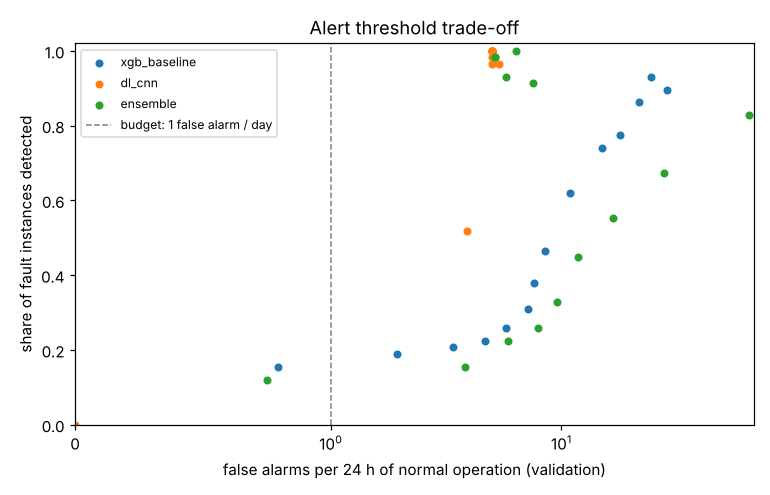
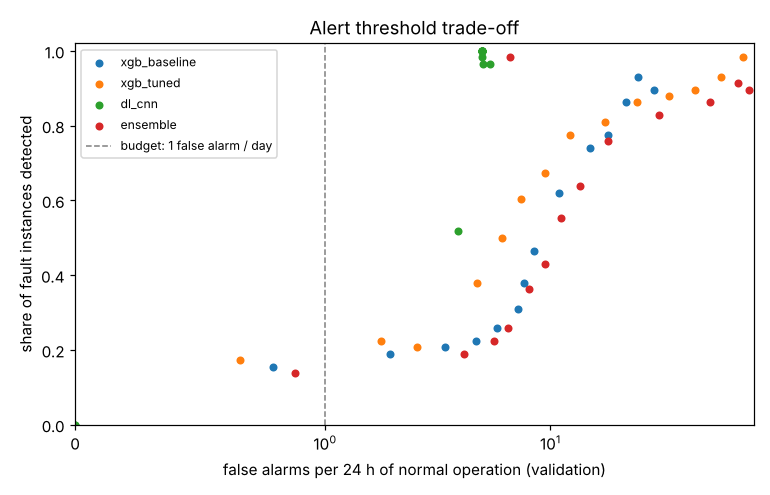
Task 10: compare the tuned model; production model is the tuned XGBoost
- chosen on validation by the fixed rule (detection within 1 false alarm/day): tuned XGBoost,
  threshold 0.85, k 5; on test wells 56% of faults detected, 2.9 false alarms/day, median
  delay 4 min (baseline: 57%, 3.3/day)
- evaluate accepts relative artifact paths

diff --git a/src/owfd/models/evaluate.py b/src/owfd/models/evaluate.py
@@ -268,6 +268,7 @@ def main(argv: list[str] | None = None) -> None:
         d for d in (_latest(artifacts / "xgb", "xgb_baseline"), _latest(artifacts / "dl", "dl_cnn"),
                     _latest(artifacts / "dl", "dl_gru")) if d is not None
     ]  # fmt: skip
+    dirs = [d.resolve() for d in dirs]  # relative paths from the CLI are fine too
     names = {d: d.name.rsplit("-", 2)[0] for d in dirs}
     proba: dict[str, dict[str, np.ndarray]] = {}
     meta: dict[str, pd.DataFrame] = {}

diff --git a/docs/early_warning.md b/docs/early_warning.md
@@ -16,34 +16,36 @@ The production model is also chosen on validation; test numbers are reported onc
 
 ## Model comparison
 
-| | XGBoost | CNN | Ensemble (mean) |
-|---|---:|---:|---:|
-| Val macro F1 (windows) | **0.440** | 0.075 | 0.350 |
-| Test macro F1 (windows) | **0.446** | 0.218 | 0.413 |
-| Calibration error, test (ECE, raw → calibrated) | 0.127 → **0.088** | 0.399 → 0.242 | 0.145 → 0.125 |
-| Tuned rule (threshold, k) | 0.80, 5 | 0.90, 1 | 0.90, 5 |
-| Val: faults detected / false alarms per day | 21% / 0.92 | 0% / 0.00 | 14% / 0.57 |
-| **Test: faults detected** (126 instances) | **57%** | 3% | 44% |
-| Test: median delay after fault onset | **4 min** | 424 min | 4 min |
-| Test: median lead time before steady state | 559 min | 84 min | 854 min |
-| Test: false alarms per 24 h of normal operation | 3.3 | 0.05 | 2.1 |
+| | XGBoost baseline | **XGBoost tuned** | CNN | Ensemble (mean) |
+|---|---:|---:|---:|---:|
+| Val macro F1 (windows) | 0.440 | **0.453** | 0.075 | 0.437 |
+| Test macro F1 (windows) | 0.446 | 0.433 | 0.218 | 0.447 |
+| Calibration error, test (ECE, raw → calibrated) | 0.127 → 0.088 | 0.109 → 0.110 | 0.399 → 0.242 | 0.114 → 0.110 |
+| Tuned rule (threshold, k) | 0.80, 5 | 0.85, 5 | 0.90, 1 | 0.85, 5 |
+| **Val: faults detected / false alarms per day** | 21% / 0.92 | **22% / 0.57** | 0% / 0.00 | 19% / 0.88 |
+| Test: faults detected (126 instances) | 57% | 56% | 3% | 52% |
+| Test: median delay after fault onset | 4 min | 4 min | 424 min | 4 min |
+| Test: median lead time before steady state | 559 min | 217 min | 84 min | 427 min |
+| Test: false alarms per 24 h of normal operation | 3.3 | **2.9** | 0.05 | 1.9 |
 
-**Chosen: XGBoost** (`configs/serving.yaml`): best validation detection within the false-alarm
-budget, and best macro F1. The ensemble does not beat XGBoost alone because the CNN adds noise.
+**Chosen: XGBoost tuned** (`configs/serving.yaml`): best validation detection within the
+false-alarm budget (and fewer validation false alarms). On the test wells it performs about the
+same as the baseline: slightly fewer detections (56% vs 57%) and fewer false alarms (2.9 vs 3.3
+per day).
 
-## XGBoost per event class (test wells)
+## Production model per event class (test wells)
 
 | Class | Instances | Detected | Median lead (min) | Median delay (min) |
 |---|---:|---:|---:|---:|
-| 1 Abrupt Increase of BSW | 2 | 50% | 379 | 272 |
+| 1 Abrupt Increase of BSW | 2 | 0% | – | – |
 | 2 Spurious Closure of DHSV | 3 | **100%** | 67 | 5 |
-| 3 Severe Slugging | 31 | 23% | – (no transient) | 84 |
+| 3 Severe Slugging | 31 | 19% | – (no transient) | 72 |
 | 4 Flow Instability | 64 | 67% | – (no transient) | 4 |
-| 5 Rapid Productivity Loss | 6 | 33% | 1,516 | 2 |
-| 6 Quick Restriction in PCK | 3 | 33% | 12 | 0 |
-| 7 Scaling in PCK | 10 | **100%** | 1,372 | 162 |
-| 8 Hydrate in Production Line | 2 | **100%** | 1,669 | 31 |
-| 9 Hydrate in Service Line | 5 | 60% | -3 | 71 |
+| 5 Rapid Productivity Loss | 6 | 33% | 1,249 | 269 |
+| 6 Quick Restriction in PCK | 3 | 33% | 9 | 3 |
+| 7 Scaling in PCK | 10 | **100%** | 1,406 | 348 |
+| 8 Hydrate in Production Line | 2 | **100%** | 1,670 | 31 |
+| 9 Hydrate in Service Line | 5 | 60% | 0 | 11 |
 
 Lead times are long for slowly developing faults (scaling and hydrates develop over a day or
 more), and minutes for fast ones (DHSV closure: alert 5 min after onset, about an hour before the
@@ -52,7 +54,7 @@ steady state).
 ## Honest caveats
 
 - **False alarms do not transfer perfectly across wells.** The rule was held to 1 false alarm per
-  day on the validation wells but gives 3.3 per day on the test wells (959 h of normal
+  day on the validation wells but gives 2.9 per day on the test wells (959 h of normal
   operation). In production the threshold should be re-tuned per well or per field after a
   burn-in period; [the trade-off plot](figures/alert_tradeoff.png) shows the available
   operating points (e.g. lower thresholds detect 60–90% of faults at 10–25 false alarms/day).
